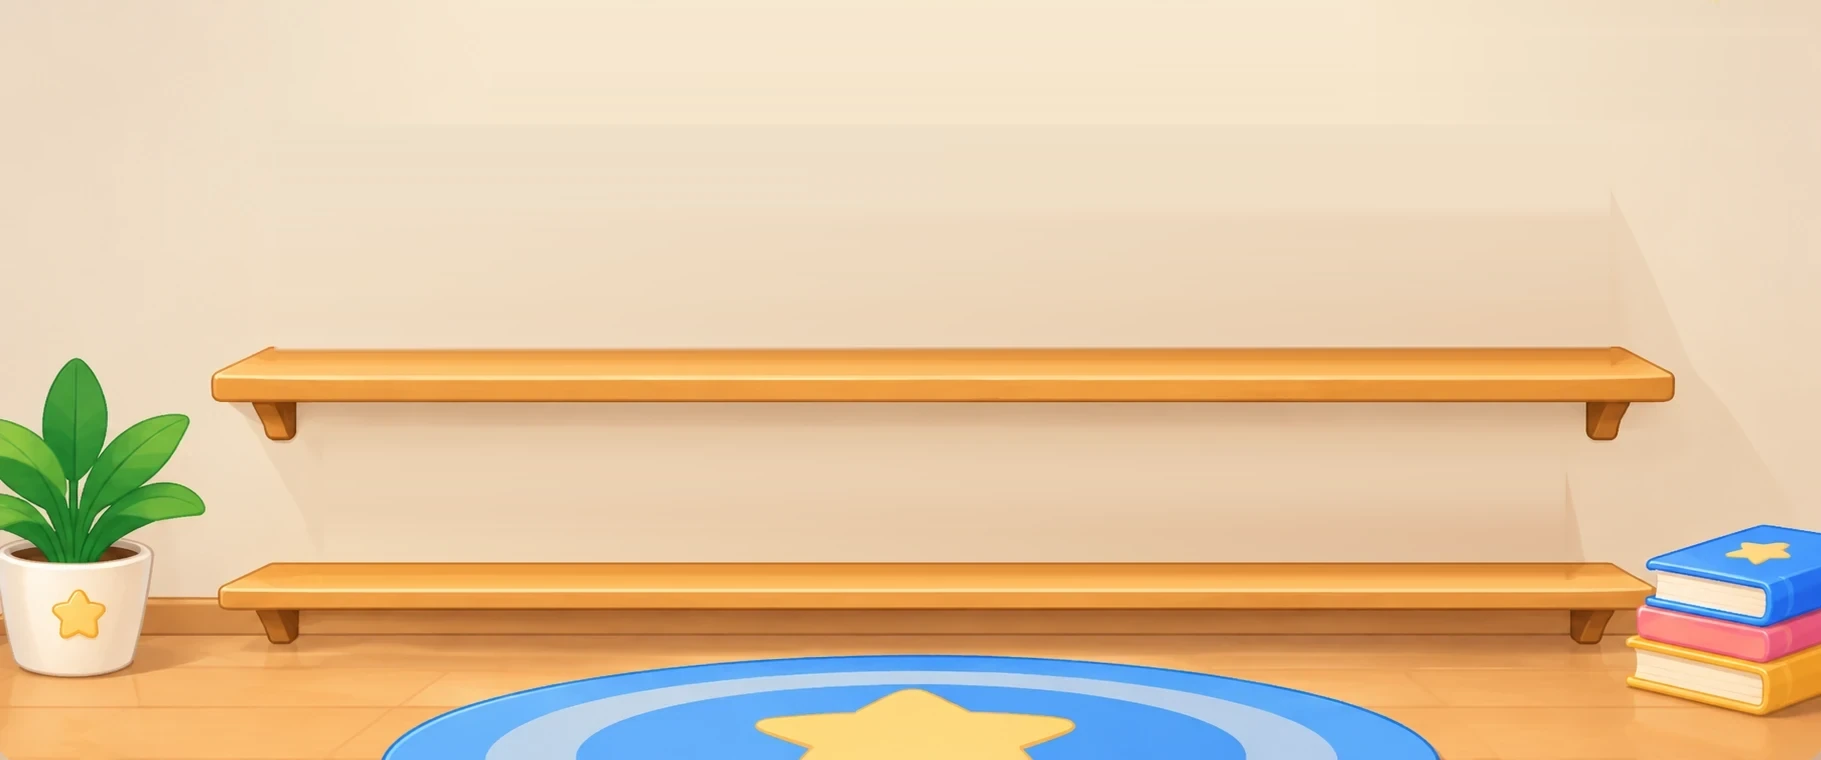
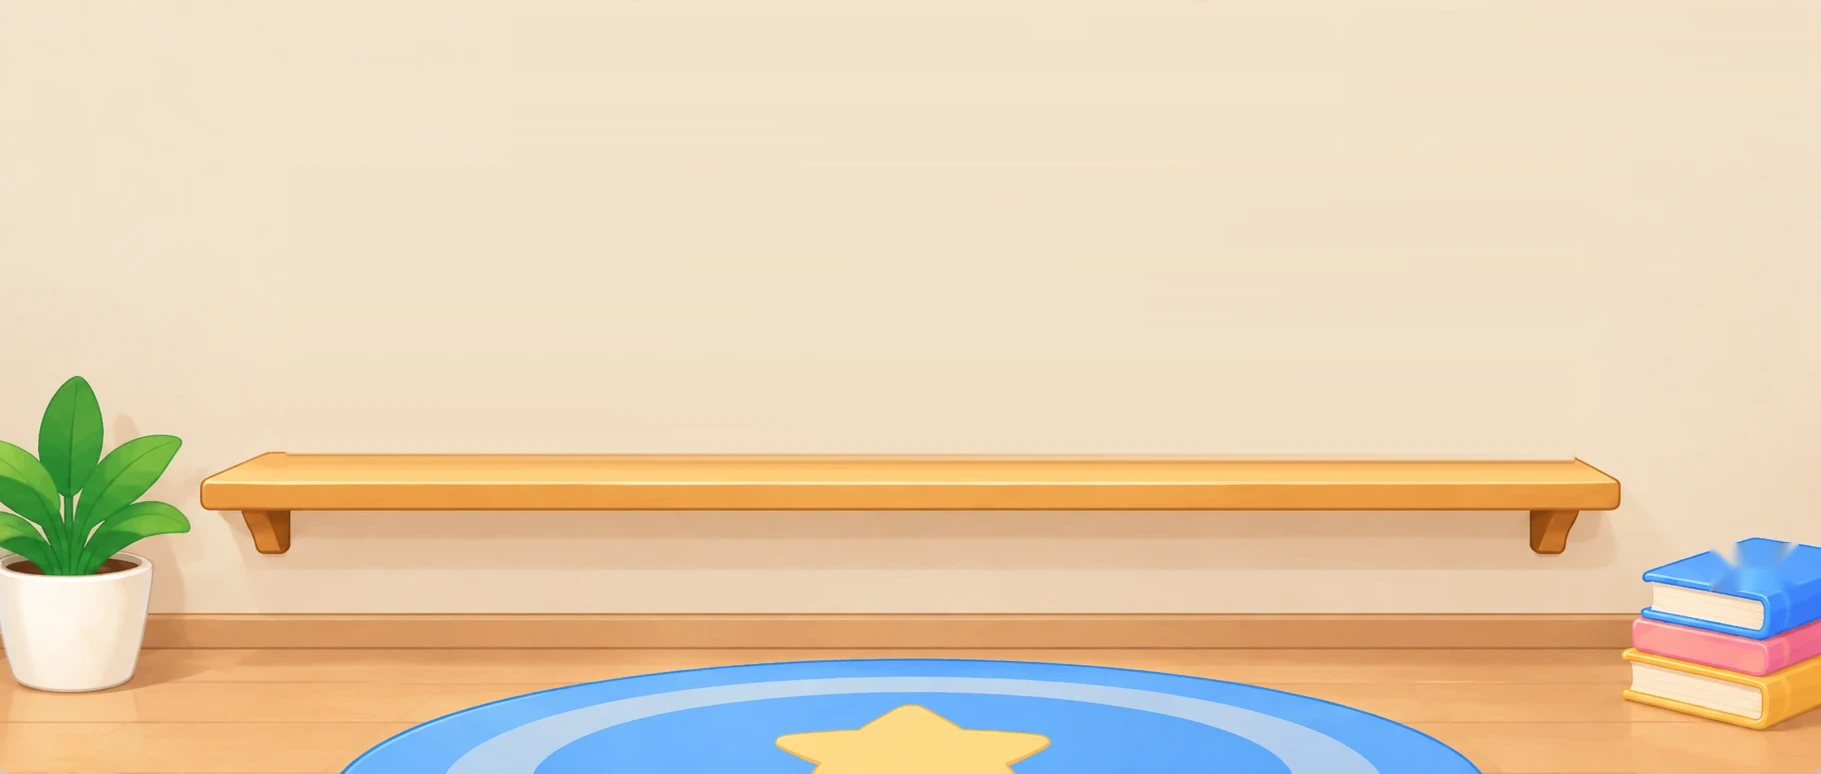
Truyện tranh: giá sách 1 kệ 3 ô theo ảnh mới (bìa không méo, bỏ chữ nhỏ, tia sáng và ngôi sao trang trí, giữ sao trên thảm)
Claude-Session: https://claude.ai/code/session_01Xqfit1TE88fdJNq9wU4RBg

diff --git a/frontend/src/index.css b/frontend/src/index.css
@@ -1220,9 +1220,9 @@ html[data-arena-enter] main .page > *:nth-child(n+5) { animation-delay: 280ms; }
 @keyframes gs-shake { 0%, 100% { transform: rotate(0); } 25% { transform: rotate(-4deg); } 75% { transform: rotate(4deg); } }
 .gs-pill-go { border-color: #F3B21A; background: linear-gradient(#FFE690, #FFC93C); animation: gs-glow 1.4s ease-in-out infinite; }
 
-/* ===== Truyện tranh của bé: giá sách 2 kệ (màn hình rộng) ===== */
+/* ===== Truyện tranh của bé: giá sách 1 kệ 3 ô (màn hình rộng) ===== */
 .sb-room { background: #EBD5AE; }
-.sb-stage { position: relative; width: 100%; aspect-ratio: 1821 / 760; overflow: hidden; container-type: inline-size; background: url(/storybook/room.webp) center / 100% 100% no-repeat; }
+.sb-stage { position: relative; width: 100%; aspect-ratio: 1821 / 774; overflow: hidden; container-type: inline-size; background: url(/storybook/room.webp) center / 100% 100% no-repeat; }
 .sb-sign { position: absolute; z-index: 3; display: flex; align-items: center; justify-content: center; gap: 1.6cqw; border: max(2px, 0.22cqw) solid #D98B3A; border-radius: 3.2cqw; background:
   repeating-linear-gradient(176deg, rgba(255, 255, 255, 0.14) 0 3px, rgba(255, 255, 255, 0) 3px 14px),
   linear-gradient(#FFD38A, #F6B15A 70%, #F0A24A);
@@ -1232,41 +1232,24 @@ html[data-arena-enter] main .page > *:nth-child(n+5) { animation-delay: 280ms; }
 .sb-sign-star-l { transform: rotate(-12deg); }
 .sb-sign-star-r { transform: rotate(10deg); }
 .sb-sign-star path { stroke: #F1A00A; }
-.sb-hook { position: absolute; top: -0.7cqw; width: 1.6cqw; height: 2.4cqw; border-radius: 0.6cqw; background: linear-gradient(#5B8DE8, #2F62C4); box-shadow: 0 0.2cqw 0.4cqw rgba(0, 0, 0, 0.25); }
-.sb-hook-l { left: 7%; }
-.sb-hook-r { right: 7%; }
-.sb-sub { position: absolute; z-index: 3; margin: 0; display: grid; place-items: center; text-align: center; font-weight: 700; font-size: max(13px, 1.08cqw); color: #7A5A3A; }
-.sb-spark { position: absolute; z-index: 2; width: 1.9cqw; height: 0.48cqw; border-radius: 9999px; background: #FFD43B; box-shadow: 0 0.12cqw 0 #F1A00A; }
-.sb-spark-l1 { left: 28.4%; top: 16%; transform: rotate(24deg); }
-.sb-spark-l2 { left: 28.4%; top: 22.5%; transform: rotate(-24deg); }
-.sb-spark-r1 { left: 71%; top: 16%; transform: rotate(-24deg); }
-.sb-spark-r2 { left: 71%; top: 22.5%; transform: rotate(24deg); }
+.sb-hook { position: absolute; top: -1.4cqw; width: 1.6cqw; height: 2.4cqw; border-radius: 0.6cqw; background: linear-gradient(#5B8DE8, #2F62C4); box-shadow: 0 0.2cqw 0.4cqw rgba(0, 0, 0, 0.25); }
+.sb-hook-l { left: 8%; }
+.sb-hook-r { right: 8%; }
 .sb-new { position: absolute; z-index: 4; display: flex; align-items: center; justify-content: center; gap: 0.8cqw; border: max(2px, 0.28cqw) solid #fff; border-radius: 9999px; background: linear-gradient(#3AA7FF, #0A84F5); box-shadow: 0 0.5cqw 1.2cqw rgba(10, 80, 190, 0.35); font-family: var(--font-display); font-weight: 800; font-size: max(15px, 1.45cqw); color: #fff; transition: transform 0.15s, filter 0.15s; }
 .sb-new:hover { transform: translateY(-0.2cqw); filter: brightness(1.06); }
 
 .sb-slot { position: absolute; z-index: 4; display: block; container-type: inline-size; transition: transform 0.18s; }
 a.sb-slot:hover { transform: translateY(-1.4cqw) rotate(-0.6deg); z-index: 5; }
 .sb-slot-empty { z-index: 3; }
-.sb-spine { position: absolute; left: 0; top: 1.2%; bottom: 0; width: 9cqw; border-radius: 4cqw 1.5cqw 1.5cqw 4cqw; background: linear-gradient(90deg, #1F67DA, #4E9BFF 45%, #2E7CEF); box-shadow: 0 0.8cqw 1.6cqw rgba(60, 40, 10, 0.3); }
+.sb-spine { position: absolute; left: 0; top: 1.5%; bottom: 0; width: 9cqw; border-radius: 4cqw 1.5cqw 1.5cqw 4cqw; background: linear-gradient(90deg, #1F67DA, #4E9BFF 45%, #2E7CEF); box-shadow: 0 0.8cqw 1.6cqw rgba(60, 40, 10, 0.3); }
 .sb-cover { position: absolute; left: 5.5cqw; right: 0; top: 0; bottom: 0; overflow: hidden; border-radius: 1.5cqw 3.5cqw 2cqw 1.5cqw; background: #FBF3E2; box-shadow: 0 0.8cqw 1.6cqw rgba(60, 40, 10, 0.3), inset 0 0 0 0.5cqw rgba(255, 255, 255, 0.5); }
 .sb-cover-img { position: absolute; inset: 0; width: 100%; height: 100%; object-fit: cover; }
 .sb-cover-blank { position: absolute; inset: 0; display: grid; place-items: center; background: #EAF6FF; color: #2F86E8; }
-.sb-title { position: absolute; left: 0; right: 0; bottom: 0; display: flex; flex-direction: column; align-items: center; gap: 0.4cqw; padding: 2cqw 3cqw 2.2cqw; background: rgba(255, 251, 242, 0.96); text-align: center; }
-.sb-title b { max-width: 100%; overflow: hidden; text-overflow: ellipsis; white-space: nowrap; font-family: var(--font-display); font-weight: 800; font-size: 7cqw; line-height: 1.1; color: #6A3A0E; }
-.sb-title small { font-weight: 700; font-size: 4.6cqw; line-height: 1.1; color: #9A7A58; }
+.sb-title { position: absolute; left: 3.5cqw; right: 3.5cqw; bottom: 3.5cqw; display: flex; justify-content: center; padding: 1.8cqw 3cqw; border-radius: 3cqw; background: rgba(255, 251, 242, 0.97); text-align: center; box-shadow: 0 0.4cqw 1cqw rgba(60, 40, 10, 0.2); }
+.sb-title b { max-width: 100%; overflow: hidden; text-overflow: ellipsis; white-space: nowrap; font-family: var(--font-display); font-weight: 800; font-size: 6.2cqw; line-height: 1.15; color: #6A3A0E; }
 .sb-tag { position: absolute; right: 3cqw; top: 3cqw; padding: 0.6cqw 2.6cqw; border-radius: 9999px; background: rgba(255, 244, 205, 0.95); font-weight: 800; font-size: 4.6cqw; line-height: 1.3; color: #8A5A10; box-shadow: 0 0.4cqw 0.8cqw rgba(60, 40, 10, 0.25); }
 .sb-tag-done { background: rgba(214, 246, 224, 0.96); color: #1E7A44; }
-.sb-cover-create { background: linear-gradient(#FFF8EA, #FBEBCF); display: grid; place-items: center; align-content: center; gap: 4cqw; }
-.sb-cstar { position: absolute; width: 8cqw; color: #FFD43B; }
-.sb-cstar path { stroke: #F1A00A; }
-.sb-cstar-tl { left: 3cqw; top: 3cqw; transform: rotate(-12deg); }
-.sb-cstar-tr { right: 3cqw; top: 3cqw; transform: rotate(12deg); }
-.sb-cstar-bl { left: 3cqw; bottom: 3cqw; transform: rotate(10deg); }
-.sb-cstar-br { right: 3cqw; bottom: 3cqw; transform: rotate(-10deg); }
-.sb-plus { display: grid; place-items: center; width: 24cqw; height: 24cqw; border-radius: 9999px; background: linear-gradient(#3AA7FF, #0A84F5); color: #fff; box-shadow: 0 1cqw 2cqw rgba(10, 80, 190, 0.35), inset 0 0.6cqw 0 rgba(255, 255, 255, 0.4); }
-.sb-plus svg { width: 55%; height: 55%; }
-.sb-create-text { font-family: var(--font-display); font-weight: 800; font-size: 7.2cqw; line-height: 1.1; color: #1C6FE0; }
-.sb-empty { position: absolute; inset: 0 0 0 0; display: grid; place-items: center; border: 0.55cqw dashed #D9BA8D; border-radius: 4cqw; background: linear-gradient(#F6E7CB, #F1DDBA); box-shadow: 0 1cqw 1.6cqw rgba(140, 90, 30, 0.22), inset 0 0.5cqw 0 rgba(255, 255, 255, 0.55); }
+.sb-empty { position: absolute; inset: 0; display: grid; place-items: center; border: 0.55cqw dashed #D9BA8D; border-radius: 4cqw; background: linear-gradient(#F6E7CB, #F1DDBA); box-shadow: 0 1cqw 1.6cqw rgba(140, 90, 30, 0.22), inset 0 0.5cqw 0 rgba(255, 255, 255, 0.55); }
 .sb-empty-star { width: 30cqw; color: #E5C898; }
 .sb-empty-star path { stroke: #E5C898; }
 .sb-arrow { position: absolute; z-index: 5; display: grid; place-items: center; padding: 0; border: max(2px, 0.2cqw) solid #C58A4C; border-radius: 9999px; background: linear-gradient(#F9DDB0, #EEBC78); box-shadow: 0 0.3cqw 0 #B57A3C; color: #6B3A12; cursor: pointer; transition: transform 0.15s, opacity 0.15s; }

diff --git a/frontend/src/pages/Storybook/StorybookList.jsx b/frontend/src/pages/Storybook/StorybookList.jsx
@@ -5,14 +5,13 @@ import { api } from '../../services/api';
 import Icon from '../../components/Icon';
 import useWide from '../../hooks/useWide';
 
-// Cảnh giá sách (ảnh nền 1821×760): 2 kệ × 4 ô. Ô đầu tiên là "Tạo truyện mới", các ô sau là truyện của bé.
+// Cảnh giá sách (ảnh nền 1821×774): 1 kệ × 3 ô. Truyện lấp từ ô giữa ra hai bên; ô chưa có truyện để trống.
 const W = 1821;
-const H = 760;
+const H = 774;
 const SLOTS = [
-  // kệ trên (sách đứng cao)
-  [254, 150, 300, 224], [614, 150, 300, 224], [974, 150, 300, 224], [1334, 150, 300, 224],
-  // kệ dưới (sách nằm thấp)
-  [277, 436, 240, 150], [637, 436, 240, 150], [997, 436, 240, 150], [1357, 436, 240, 150],
+  [740, 167, 330, 301], // giữa (to nhất)
+  [322, 222, 262, 250], // trái
+  [1246, 222, 262, 250], // phải
 ];
 const pc = (v, total) => `${(v / total) * 100}%`;
 const box = ([x, y, w, h]) => ({ left: pc(x, W), top: pc(y, H), width: pc(w, W), height: pc(h, H) });
@@ -25,44 +24,19 @@ function Star({ className }) {
   );
 }
 
-function Spark({ className }) {
-  return <span className={`sb-spark ${className}`} aria-hidden="true" />;
-}
-
-function BookShell({ children, className = '' }) {
-  return (
-    <>
-      <span className="sb-spine" aria-hidden="true" />
-      <span className={`sb-cover ${className}`}>{children}</span>
-    </>
-  );
-}
-
 function SlotBook({ book }) {
   const { t } = useTranslation();
   return (
-    <BookShell>
-      {book.cover ? <img src={book.cover} alt="" draggable={false} className="sb-cover-img" /> : <span className="sb-cover-blank"><Icon name="book" size={48} /></span>}
-      <span className={`sb-tag${book.completed ? ' sb-tag-done' : ''}`}>{book.completed ? t('storybook.done') : t('storybook.draft')}</span>
-      <span className="sb-title">
-        <b>{book.title}</b>
-        <small>{t('storybook.pages', { n: book.pageCount })}</small>
+    <>
+      <span className="sb-spine" aria-hidden="true" />
+      <span className="sb-cover">
+        {book.cover ? <img src={book.cover} alt="" draggable={false} className="sb-cover-img" /> : <span className="sb-cover-blank"><Icon name="book" size={48} /></span>}
+        <span className={`sb-tag${book.completed ? ' sb-tag-done' : ''}`}>{book.completed ? t('storybook.done') : t('storybook.draft')}</span>
+        <span className="sb-title">
+          <b>{book.title}</b>
+        </span>
       </span>
-    </BookShell>
-  );
-}
-
-function SlotCreate() {
-  const { t } = useTranslation();
-  return (
-    <BookShell className="sb-cover-create">
-      <Star className="sb-cstar sb-cstar-tl" />
-      <Star className="sb-cstar sb-cstar-tr" />
-      <Star className="sb-cstar sb-cstar-bl" />
-      <Star className="sb-cstar sb-cstar-br" />
-      <span className="sb-plus"><Icon name="plus" size={40} strokeWidth={3.4} /></span>
-      <span className="sb-create-text">{t('storybook.new')}</span>
-    </BookShell>
+    </>
   );
 }
 
@@ -77,7 +51,7 @@ function EmptySlot() {
 function StorybookRoom({ books }) {
   const { t } = useTranslation();
   const [page, setPage] = useState(0);
-  const items = [{ create: true }, ...(books || [])];
+  const items = books || [];
   const per = SLOTS.length;
   const pages = Math.max(1, Math.ceil(items.length / per));
   const cur = Math.min(page, pages - 1);
@@ -85,19 +59,14 @@ function StorybookRoom({ books }) {
   return (
     <div className="sb-room">
       <div className="sb-stage" data-testid="storybook-room">
-        <Spark className="sb-spark-l1" />
-        <Spark className="sb-spark-l2" />
-        <Spark className="sb-spark-r1" />
-        <Spark className="sb-spark-r2" />
-        <div className="sb-sign" style={box([583, 20, 669, 96])}>
+        <div className="sb-sign" style={box([580, 13, 678, 107])}>
           <span className="sb-hook sb-hook-l" />
           <span className="sb-hook sb-hook-r" />
           <Star className="sb-sign-star sb-sign-star-l" />
           <h1 className="sb-sign-title" data-testid="storybook-title">{t('storybook.signTitle')}</h1>
           <Star className="sb-sign-star sb-sign-star-r" />
         </div>
-        <p className="sb-sub" style={box([583, 118, 669, 30])}>{t('storybook.subtitle')}</p>
-        <Link to="/storybooks/new" className="sb-new" style={box([1403, 31, 305, 70])} data-testid="storybook-new">
+        <Link to="/storybooks/new" className="sb-new" style={box([1405, 53, 303, 70])} data-testid="storybook-new">
           <Icon name="plus" size={26} strokeWidth={3.6} /> {t('storybook.new')}
         </Link>
 
@@ -105,17 +74,16 @@ function StorybookRoom({ books }) {
           const it = shown[i];
           const style = box(geo);
           if (!it) return <span key={i} className="sb-slot sb-slot-empty" style={style}><EmptySlot /></span>;
-          if (it.create) return <Link key="create" to="/storybooks/new" className="sb-slot" style={style} data-testid="storybook-new-card" aria-label={t('storybook.new')}><SlotCreate /></Link>;
           return <Link key={it.id} to={`/storybooks/${it.id}`} className="sb-slot" style={style} data-testid={`storybook-${it.id}`} aria-label={it.title}><SlotBook book={it} /></Link>;
         })}
 
         {pages > 1 && (
           <>
-            <button type="button" className="sb-arrow" style={box([520, 676, 58, 58])} disabled={cur === 0} onClick={() => setPage(cur - 1)} aria-label={t('common.back')} data-testid="storybook-prev">
+            <button type="button" className="sb-arrow" style={box([660, 628, 58, 58])} disabled={cur === 0} onClick={() => setPage(cur - 1)} aria-label={t('common.back')} data-testid="storybook-prev">
               <Icon name="back" size={22} strokeWidth={3.4} />
             </button>
-            <span className="sb-page" style={box([870, 690, 82, 34])}>{cur + 1}/{pages}</span>
-            <button type="button" className="sb-arrow" style={box([1244, 676, 58, 58])} disabled={cur >= pages - 1} onClick={() => setPage(cur + 1)} aria-label={t('common.next')} data-testid="storybook-next">
+            <span className="sb-page" style={box([868, 640, 86, 34])}>{cur + 1}/{pages}</span>
+            <button type="button" className="sb-arrow" style={box([1104, 628, 58, 58])} disabled={cur >= pages - 1} onClick={() => setPage(cur + 1)} aria-label={t('common.next')} data-testid="storybook-next">
               <Icon name="chevronRight" size={22} strokeWidth={3.4} />
             </button>
           </>
